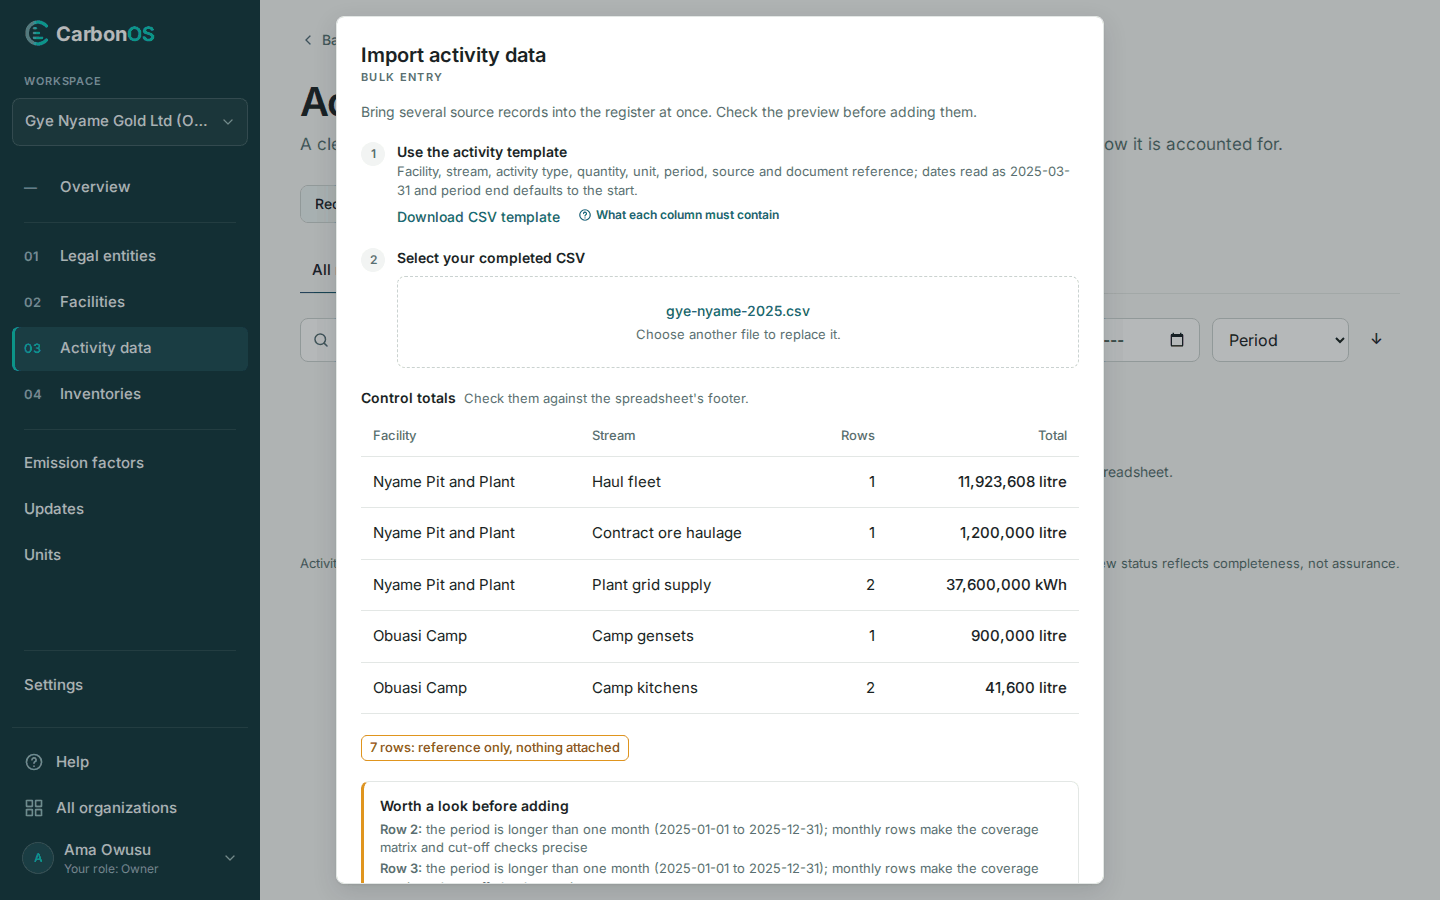
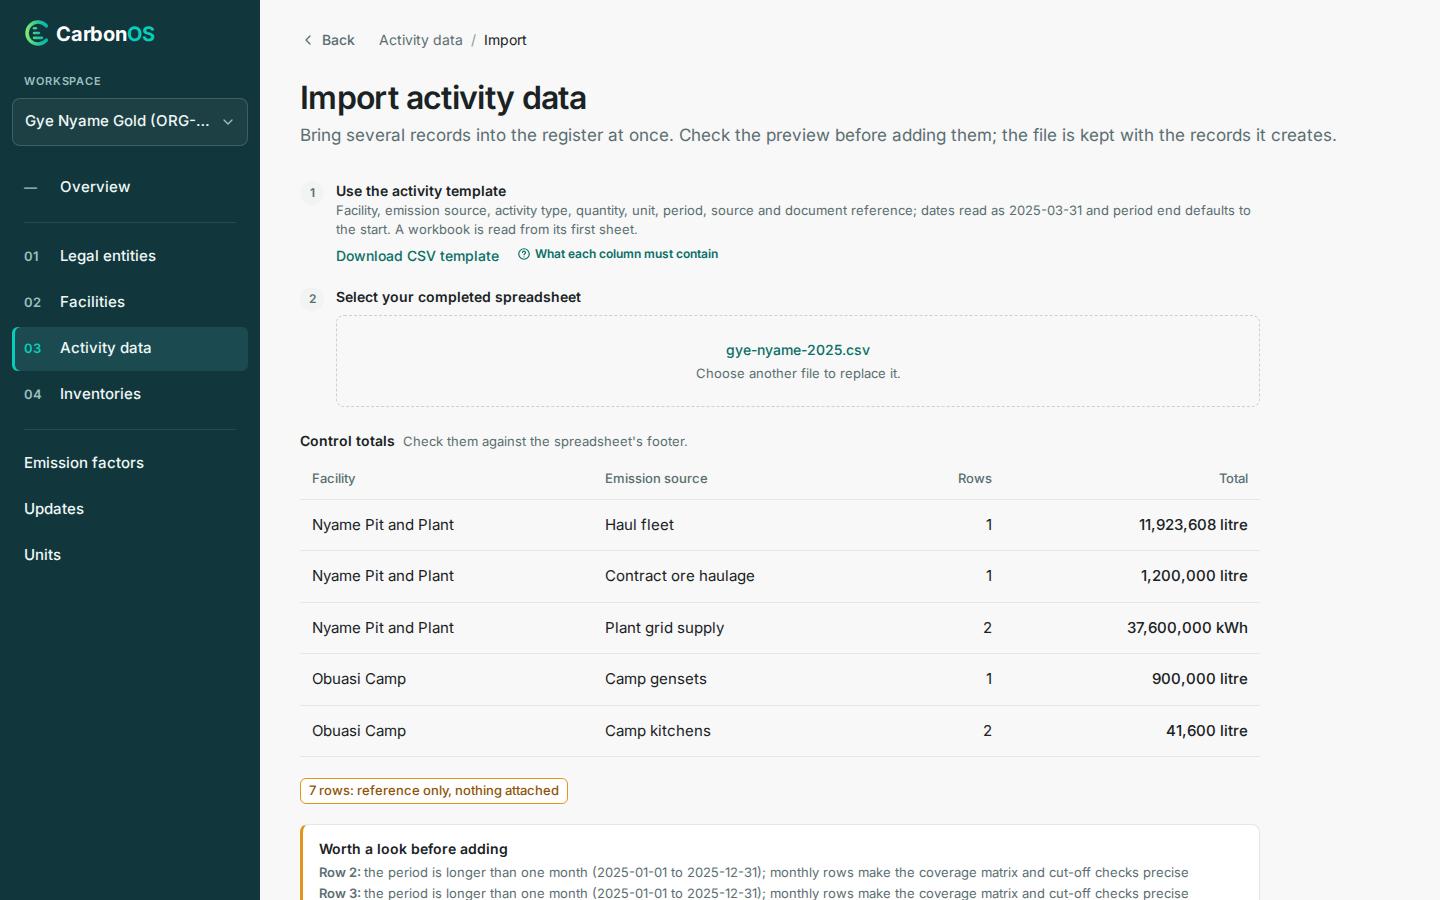
docs(help): the spreadsheet import, the decisions in the preview, and acting on several records at once (spec 04.11) (#172)
* docs(help): the spreadsheet import, the decisions in the preview, and acting on several records at once (spec 04.11)

Import records from a spreadsheet replaces the CSV page (legacy address
kept), Prepare the spreadsheet covers the workbook and the decision block,
the correction page gains the bulk acts, and the get-started import step
follows the page. Figures retaken from the running product.

* docs(help): drop the CSV import page the spreadsheet page replaces

---------

diff --git a/help/docs/activity-data/prepare-the-csv-file.md b/help/docs/activity-data/prepare-the-csv-file.md
@@ -1,32 +1,33 @@
 ---
 owner: miketak
-last_reviewed: 2026-09-28
-description: The columns, limits and accepted values of the file Import CSV reads, with every rejection message the preview can print and a worked example.
+last_reviewed: 2026-10-05
+description: The columns, limits and accepted values of the CSV or XLSX that Import reads, with every rejection message the preview can print and a worked example.
 role: Preparer
 ---
 
-# Prepare the CSV file
+# Prepare the spreadsheet
 
-The file **Import CSV** accepts on **Activity data**. **Download CSV template** in the import dialog gives the header row with one example row, and **What each column must contain** opens this page.
+The file **Import** accepts on **Activity data**: a CSV, or an XLSX read from its first sheet. **Download CSV template** on the import page gives the header row with one example row, and **What each column must contain** opens this page.
 
-<!-- sources: reference/csv-import-template.md (verified 2026-09-24); spec 04.6; ActivityImportService.java (COLUMNS, template, row problems, warnings, MAX_ROWS, MAX_BYTES); ImportActivitiesModal.tsx; the fixture help/docs/assets/gye-nyame-2025.csv as previewed in the Gye Nyame Gold walkthrough of 2026-09-28 (replay-log.txt, "4 preview") -->
+<!-- sources: reference/csv-import-template.md (verified 2026-09-24); specs 04.6 and 04.11; QA procedure 3 cases A1, B1 and J1; ActivityImportService.java (COLUMNS, template, row problems, warnings, MAX_ROWS, MAX_BYTES), XlsxTable.java (the workbook's cells); ImportActivitiesPage.tsx; the fixture help/docs/assets/gye-nyame-2025.csv as previewed in the Gye Nyame Gold walkthrough of 2026-09-28 (replay-log.txt, "4 preview") -->
 
 ## Limits
 
 | Limit | Value | Message when exceeded |
 | --- | --- | --- |
-| File | A CSV, chosen or dropped in the dialog. | "Choose a CSV file to import."; "The file is empty. Download the template and fill it in." |
+| File | A CSV or an XLSX, chosen or dropped on the page; a workbook is read from its first sheet, whose row 1 is the header. | "Choose a CSV or XLSX file to import."; "The file is empty. Download the template and fill it in."; "Row 1 of the first sheet must be the header. Download the template."; "The workbook could not be read. Save it again as .xlsx or .csv." |
 | File size | 5 MB | "The file is larger than 5 MB." |
 | Rows | 10,000 per file | "The file has more than 10000 rows. Split it." |
 | Header | The five required columns, in any order; other columns may be left out. | "The header lacks the '*column*' column. Download the template." |
-| Dates | `2025-03-31` | "*field* '*value*' is not a date (use 2025-03-31)" |
+| Dates | `2025-03-31`; a workbook's date-formatted cell reads as such. | "*field* '*value*' is not a date (use 2025-03-31)" |
+| Workbook cells | A number reads as a plain decimal; a formula reads as its cached value. | No rejection; the preview warns. |
 
 ## Columns
 
 | Column | Required | Accepted values | Rejected when |
 | --- | --- | --- | --- |
 | `facility` | Yes | The name of a facility under **Facilities**, matched without regard to case. | "facility is empty"; "no facility named '*name*'". |
-| `emission_source` | No | The name of an emission source of that facility, matched without regard to case. A file that still heads the column `stream` is read the same way. | "'*Facility*' has no emission source named '*name*'". |
+| `emission_source` | No | The name of an emission source of that facility, matched without regard to case. A file that still heads the column `stream` is read the same way. A name the facility does not have is decided in the preview: used, mapped with a reason, or created. | "'*Facility*' has no emission source named '*name*'", only when **Add records** is clicked with the name undecided. |
 | `activity_type` | Yes | Free text, up to 120 characters: what the row is. | "activity_type is empty"; "activity_type is longer than 120 characters". |
 | `quantity` | Yes | A number greater than 0, up to 3 decimals and 11 integer digits. Commas are dropped. | "quantity '*value*' is not a number"; "quantity must be greater than 0"; "quantity has more than 3 decimals or more than 11 integer digits". |
 | `unit` | Yes | A unit code, up to 30 characters: a registered code (`litre`, `kWh`, `tonne`, …) or a custom unit defined under **Units**. | "unit is empty"; "unit is longer than 30 characters". |
@@ -48,6 +49,7 @@ A repeated row is rejected: "duplicate: the same facility, activity, quantity, u
 | **Control totals** | Rows and summed quantity per facility, emission source and unit: "Check them against the spreadsheet's footer." |
 | "*N* rows: reference only, nothing attached" | Rows with an `evidence_ref` and no file. Other counts name the missing item, for example "2 rows: missing source". |
 | **Worth a look before adding** | Warnings that do not stop the import. |
+| **Decide *N* unknown emission sources** | One card per emission source name the file has and the facility does not: the rows it covers, the similar names offered as **Use *name***, **Use another source of *facility*** with **Why this source?**, or **Create '*name*'**. Its rows read **Needs a decision** until then. |
 | "*N* records to add" | The rows that will become records: "Row numbers count the header as row 1, as the spreadsheet does." |
 | "Nothing will import: *N* rows rejected. Fix them and choose the file again." | Each rejected row with its problems. Nothing is added while any row is rejected. |
 
@@ -56,6 +58,8 @@ A repeated row is rejected: "duplicate: the same facility, activity, quantity, u
 | "the period is longer than one month (*start* to *end*); monthly rows make the coverage matrix and cut-off checks precise" | The row covers more than a month. |
 | "matches draft *ACT-NNNN* (same facility, activity and period): the draft stays on file, complete or remove it" | A draft on file has the same facility, activity type and period; the row adds a new record next to it. |
 | "'*Source*' mixes units in this file:" followed by the units | Two rows on one emission source use different units. |
+| "The workbook has *N* sheets; only '*Sheet1*' was read." | The file has more than one sheet. |
+| "quantity came from a formula; the saved value is the cached result" | The row's quantity, unit or period cell is a formula; the figure is what the spreadsheet last calculated. |
 
 ## Example
 

diff --git a/help/docs/activity-data/import-records-from-a-spreadsheet.md b/help/docs/activity-data/import-records-from-a-spreadsheet.md
@@ -1,0 +1,63 @@
+---
+owner: miketak
+last_reviewed: 2026-10-05
+description: Load a CSV or XLSX of activity records at once through Import, check the preview, decide any emission source the facility lacks, and add the records.
+role: Preparer
+minutes: 6
+screens: [step-4-import-preview.png, import-decide-sources.png]
+---
+
+# Import records from a spreadsheet
+
+An import brings several source records into the register at once, after a preview you check against the spreadsheet's footer. The file is kept with the records it creates.
+
+<!-- sources: specs 04.5, 04.6, 04.10 and 04.11 (the page, the workbook, the decisions, the stages); QA procedure 3 cases A1, A2, B1 and J1; ImportActivitiesPage.tsx (page text, the decision cards, the stages, "Add records"), ImportDecisionCard.tsx, ActivityPage.tsx (toast), ActivityImportService.java (warnings, rejections); screen text and figures from the local walkthrough of 2026-10-05 -->
+
+## Before you start
+
+- The facilities the rows name exist; the import matches the `facility` column by name. An emission source the file names and the facility does not have is decided in the preview, so the sources need not exist first.
+- The file follows [Prepare the spreadsheet](prepare-the-csv-file.md): one row per record, a CSV or an XLSX of up to 5 MB. A workbook is read from its first sheet.
+- You are a Preparer, Reviewer or Owner of the organization.
+
+## Import the file
+
+1. Open **Activity data** and click **Import**. The page **Import activity data** opens, under the breadcrumb **Activity data › Import**.
+2. Starting from scratch, click **Download CSV template** under **Use the activity template**. **What each column must contain** opens the column reference.
+3. Under **Select your completed spreadsheet**, click **Choose a CSV or XLSX file**, or drop the file on the page. The page reads "Uploading…" with the percentage, then "Checking *N* rows…" (for a workbook, "Checking the workbook…").
+4. Check **Control totals** against the spreadsheet's footer: rows and summed quantity per facility and emission source.
+5. Read **Worth a look before adding**. These warnings do not stop the import.
+6. Decide each name under **Decide *N* unknown emission sources**, if the block appears; see the next section.
+7. Read the list of records to add, for example "7 records to add".
+8. Click **Add records**. The page reads "Adding *N* records…" and returns to **Activity data**.
+
+![The import preview for gye-nyame-2025.csv: control totals per facility and emission source, the reference-only count, and the warnings on long periods](../assets/screens/step-4-import-preview.png)
+
+What you see: "7 records imported." and one row per record in the register, numbered in the order of the file (ACT-0001 to ACT-0007 for Gye Nyame Gold). When the import created emission sources, the message goes on: "1 emission source added during import." Rows the preview counted as "7 rows: reference only, nothing attached" carry "ref" in the attachments column. Row numbers in the preview count the header as row 1, as the spreadsheet does.
+
+## Decide an unknown emission source
+
+When a row names an emission source its facility does not have, nothing is rejected and nothing is matched silently. The row's status reads **Needs a decision**, and the preview lists the name once, with the rows it covers, under **Decide *N* unknown emission sources**. For each name, tick one of:
+
+- **Use *name***, offered when the facility has a source with a similar name (as the record form offers it). No reason is needed: the preview proposed it.
+- **Use another source of *facility***: choose the source and fill **Why this source?** with at least 10 characters, because nothing in the name suggested it.
+- **Create '*name*'**: the source is described as the record form describes one (**Source name**, **Kind**, **Fuel or material**, **Meter or supplier**, **Operated by a contractor**). When a similar name exists, **Why is this a different source?** is required too.
+
+![The decision cards for a file that names Boiler LPG 2 and Chiller units at Kumasi Plant: the first offers Use Boiler LPG, the second is created](../assets/screens/import-decide-sources.png)
+
+**Add records** stays disabled until every name is decided. A source created here is marked "added during import" on the facility's **Emission sources** page, and the organization's history records each mapping with the rows it covered.
+
+## What the warnings mean
+
+- "The workbook has *N* sheets; only '*Sheet1*' was read.": only the first sheet imports.
+- "quantity came from a formula; the saved value is the cached result": the cell is a formula, so the figure is what the spreadsheet last calculated. Check that it was recalculated before saving.
+- "Row 8: the period is longer than one month (2025-12-15 to 2026-01-15); monthly rows make the coverage matrix and cut-off checks precise": the row imports as it is.
+- "matches draft *ACT-NNNN* (same facility, activity and period): the draft stays on file, complete or remove it": the row adds a new record next to the draft. Complete or remove the draft, so the register does not hold both.
+- "'*Source*' mixes units in this file:" followed by the units: allowed, but worth checking.
+
+## If the file is rejected
+
+The preview reads "Nothing will import: *N* rows rejected. Fix them and choose the file again." and names each row with its problems, for example "no facility named 'Plant 2'". Nothing is added while any row is rejected. Every rejection message is listed in [Prepare the spreadsheet](prepare-the-csv-file.md#columns).
+
+## What happens next
+
+The records carry no scope, category or factor; an inventory decides those when it reviews them, see [Review and classify records](../inventories/review-and-classify-records.md). An inventory that already reviewed the organization's records sees the new ones once **Review activity data** is run again. Each record's history names the imported file; for a workbook, **Source documents** keeps the file as uploaded and the table as it was read.

diff --git a/help/docs/get-started/import-the-records-and-correct-one.md b/help/docs/get-started/import-the-records-and-correct-one.md
@@ -1,6 +1,6 @@
 ---
 owner: miketak
-last_reviewed: 2026-10-04
+last_reviewed: 2026-10-05
 description: Import the seven 2025 activity records for Gye Nyame Gold from a CSV file, read the preview, then correct the electricity record whose figure lost a zero.
 role: Preparer
 minutes: 10
@@ -11,24 +11,24 @@ screens: [step-4-import-preview.png]
 
 This fourth step of the Get started series brings in the year's activity data for Gye Nyame Gold from one CSV file and corrects one record in place, keeping its history. Activity data is what happened: fuel burned, electricity bought. It carries no scope and no factor; every inventory decides those separately.
 
-<!-- sources: specs 04.5, 04.6 (activity records, corrections and their history, CSV import) and 10 (the split register, the completeness strip); the old tutorial get-started/your-first-inventory.md (verified 2026-09-24); screen text and figures from the Gye Nyame Gold walkthrough of 2026-09-28 (replay-log.txt) with the fixture help/docs/assets/gye-nyame-2025.csv -->
+<!-- sources: specs 04.5, 04.6 (activity records, corrections and their history, CSV import), 04.11 (the import page) and 10 (the split register, the completeness strip); the old tutorial get-started/your-first-inventory.md (verified 2026-09-24); screen text and figures from the Gye Nyame Gold walkthrough of 2026-09-28 (replay-log.txt) with the fixture help/docs/assets/gye-nyame-2025.csv -->
 
 ## Before you start
 
 - The two facilities and five emission sources exist, from [Record the facilities and emission sources](record-the-facilities-and-emission-sources.md). The import matches each row to a facility and an emission source by name.
-- Download the year's records: [gye-nyame-2025.csv](../assets/gye-nyame-2025.csv). It has seven rows, and the second-half electricity row carries 3,600,000 kWh on purpose: a lost zero that you correct at the end of this step. The columns are described in [Prepare the CSV file](../activity-data/prepare-the-csv-file.md).
+- Download the year's records: [gye-nyame-2025.csv](../assets/gye-nyame-2025.csv). It has seven rows, and the second-half electricity row carries 3,600,000 kWh on purpose: a lost zero that you correct at the end of this step. The columns are described in [Prepare the spreadsheet](../activity-data/prepare-the-csv-file.md).
 
 ## Import the file
 
-1. Open **Activity data**. The page reads "No activity data yet". Click **Import CSV**.
-2. Under **Select your completed CSV** in the **Import activity data** dialog, choose `gye-nyame-2025.csv`. The dialog also offers **Download CSV template**, which the fixture follows.
+1. Open **Activity data**. The page reads "No activity data yet". Click **Import**.
+2. Under **Select your completed spreadsheet** on the **Import activity data** page, choose `gye-nyame-2025.csv`. The page also offers **Download CSV template**, which the fixture follows.
 3. Read the preview. **Control totals** groups the rows by facility and emission source (Nyame Pit and Plant, Plant grid supply: 2 rows, 37,600,000 kWh, and so on) so you can check them against the spreadsheet's footer. A badge reads "7 rows: reference only, nothing attached".
 4. Read **Worth a look before adding**. Every row is listed, for example "Row 5: the period is longer than one month (2025-07-01 to 2025-12-31); monthly rows make the coverage matrix and cut-off checks precise". A long period is a warning rather than an error because the fact is still a fact; monthly rows are better because they let the coverage matrix and the cut-off checks see each month on its own.
 5. Check that each row under **7 records to add** reads "Ready", then click **Add records**.
 
 ![The import preview for gye-nyame-2025.csv with the control totals by facility and emission source and the Worth a look before adding warnings](../assets/screens/step-4-import-preview.png)
 
-What you see: "Checking the file…" then "7 records imported." The strip above the table reads **Records ready** 7 "of 7" and **Record completeness** 100%. The records are numbered ACT-0001 to ACT-0007 in the order of the file: "Haul fleet diesel" (ACT-0001), "Contract haulage diesel" (ACT-0002), "Plant grid electricity H1" (ACT-0003), "Plant grid electricity H2" (ACT-0004), "Genset diesel" (ACT-0005), "Kitchen LPG" (ACT-0006) and "Year-end kitchen LPG" (ACT-0007). The list sorts by period, so the year-end row comes first. Each row has the data status **Ready** and a "ref" mark, because it cites a document reference and nothing is attached.
+What you see: "Uploading…", "Checking 7 rows…", then back on **Activity data** "7 records imported." The strip above the table reads **Records ready** 7 "of 7" and **Record completeness** 100%. The records are numbered ACT-0001 to ACT-0007 in the order of the file: "Haul fleet diesel" (ACT-0001), "Contract haulage diesel" (ACT-0002), "Plant grid electricity H1" (ACT-0003), "Plant grid electricity H2" (ACT-0004), "Genset diesel" (ACT-0005), "Kitchen LPG" (ACT-0006) and "Year-end kitchen LPG" (ACT-0007). The list sorts by period, so the year-end row comes first. Each row has the data status **Ready** and a "ref" mark, because it cites a document reference and nothing is attached.
 
 ## Correct the electricity record
 

diff --git a/help/docs/activity-data/correct-or-remove-a-record-and-attach-evidence.md b/help/docs/activity-data/correct-or-remove-a-record-and-attach-evidence.md
@@ -1,6 +1,6 @@
 ---
 owner: miketak
-last_reviewed: 2026-10-04
+last_reviewed: 2026-10-05
 description: Correct a figure with a reason the history keeps, attach the invoice or a link to it, and remove a record that should never have been entered.
 role: Preparer
 minutes: 6
@@ -11,7 +11,7 @@ screens: [step-4-correct-record.png]
 
 A correction keeps the old and new values and your reason in the record's history; evidence keeps the document with the figure it supports.
 
-<!-- sources: tasks/activity-data/enter-correct-and-evidence-a-record.md (verified 2026-09-24); specs 04.4, 04.5 and 10 (the split register); ActivityDrawer.tsx (the record's detail: reason field, toasts), ActivityHistoryModal.tsx, EvidencePanel.tsx, ActivityPage.tsx and RemoveDialog.tsx (removal dialog and toast), SourceDocumentsPage.tsx (filters, evidence index), RunDetailPage.tsx ("Since publication"), AssignmentsSection.tsx and AssignmentDetail.tsx ("Changed since publication"), ReportLabels.java ("Record removed"); screen text and figures from the Gye Nyame Gold walkthrough of 2026-09-28 (replay-log.txt): "4 record drawer", "4 record edited", "4 after save", "4 history" -->
+<!-- sources: tasks/activity-data/enter-correct-and-evidence-a-record.md (verified 2026-09-24); specs 04.4, 04.5, 04.11 (several records at once) and 10 (the split register); QA procedure 3 cases G1 and J2; BulkActionDialogs.tsx; ActivityDrawer.tsx (the record's detail: reason field, toasts), ActivityHistoryModal.tsx, EvidencePanel.tsx, ActivityPage.tsx and RemoveDialog.tsx (removal dialog and toast), SourceDocumentsPage.tsx (filters, evidence index), RunDetailPage.tsx ("Since publication"), AssignmentsSection.tsx and AssignmentDetail.tsx ("Changed since publication"), ReportLabels.java ("Record removed"); screen text and figures from the Gye Nyame Gold walkthrough of 2026-09-28 (replay-log.txt): "4 record drawer", "4 record edited", "4 after save", "4 history" -->
 
 ## Before you start
 
@@ -48,7 +48,17 @@ A record entered by mistake is removed, not deleted: "The record stays on file a
 1. Open the record and click **Remove** under its title.
 2. Fill **Reason**, at least 5 characters, and click **Remove**.
 
-What you see: "Activity removed." The row leaves the register; its documents stay under **Source documents** with the **Record removed** filter. Removing several rows at once asks for one reason.
+What you see: "Activity removed." The row leaves the register; its documents stay under **Source documents** with the **Record removed** filter.
+
+## Act on several records at once
+
+Tick the rows on **Activity data**. The footer offers **Assign emission source**, **Set data quality tier**, **Add evidence link** and **Remove *N* selected**. Each opens a dialog with the one value it needs and a **Reason** of at least 5 characters, and reads "Applies to *N* records." The act is one request: either every record changes, or none does and the dialog lists the records that refuse it by number, for example "ACT-0007 is used in run 1 and cannot be removed." Deselect them and try again.
+
+- **Assign emission source** fills a gap: it is offered when every ticked record is at one facility and has no emission source ("Select records at one facility with no emission source."). Changing a record's source is a correction of that record, because the source sets its default scope.
+- **Set data quality tier** leaves a record already at that tier as it is, and warns when the records are of more than one kind of source.
+- **Add evidence link** attaches the same link to each record: one invoice, many lines.
+
+What you see: "Emission source assigned to *N* records.", "Data quality tier set on *N* records.", "Evidence link added to *N* records." or "*N* records removed." Each record's history carries the reason; the organization's **History** names the act once.
 
 ## What happens next
 

diff --git a/help/docs/activity-data/enter-a-record.md b/help/docs/activity-data/enter-a-record.md
@@ -9,7 +9,7 @@ screens: [step-4-records.png, enter-a-record-new-source.png]
 
 # Enter a record
 
-Enter one record when an invoice, meter reading or log arrives; for a spreadsheet of rows, [import a CSV file](import-records-from-a-csv-file.md) instead.
+Enter one record when an invoice, meter reading or log arrives; for a spreadsheet of rows, [import a spreadsheet](import-records-from-a-spreadsheet.md) instead.
 
 <!-- sources: tasks/activity-data/enter-correct-and-evidence-a-record.md (verified 2026-09-24); specs 04.2, 04.5, 04.6, 04.10 and 10 (the split register, the completeness strip, the inline source and the reconcile prompt); QA governance 002 D4; ActivityDrawer.tsx (the record's detail: eyebrow, tabs, labels, hints, toasts), EmissionSourceField.tsx, ReconcileSourceNotice.tsx, GhgRules.java (ghg.stream.name-similar, ghg.stream.name-duplicate), badges.tsx and format.ts (pills and missing items), CompletenessBanner.tsx, InventoryFormModal.tsx (straddle setting); screen text and figures from the Gye Nyame Gold walkthrough of 2026-09-28 (replay-log.txt): "4 activity empty", "4 after import", "4 record drawer", "5 inventory dialog", "6 under review", "7 run page", and the local walkthrough of 2026-10-04 on the ECO-5 branch -->
 

diff --git a/help/docs/fix/check-the-validation-rules-and-limits.md b/help/docs/fix/check-the-validation-rules-and-limits.md
@@ -38,7 +38,7 @@ answers with where one is printed.
 
 | Rule | Value |
 | --- | --- |
-| CSV import | 5 MB and 10,000 rows per file; column limits in [CSV import template](../activity-data/prepare-the-csv-file.md). |
+| Spreadsheet import | A CSV or XLSX, 5 MB and 10,000 rows per file; column limits in [Prepare the spreadsheet](../activity-data/prepare-the-csv-file.md). |
 | Evidence file | "PDF, image, spreadsheet or text, up to 20 MB." (`.pdf`, `.png`, `.jpg`, `.jpeg`, `.webp`, `.csv`, `.xlsx`, `.xls`, `.txt`, `.docx`). |
 | Evidence link | URL required, up to 1,000 characters; name up to 255. |
 | Removal reason | Required. |

diff --git a/help/docs/organization/record-facilities-and-emission-sources.md b/help/docs/organization/record-facilities-and-emission-sources.md
@@ -60,4 +60,4 @@ The organization's history records adding, editing and removing a facility, with
 
 ## What happens next
 
-Records name the facility and the source, matched by name on import; one classified under its source's default needs no justification.
+Records name the facility and the source, matched by name on import (a name the facility lacks is decided in the import's preview); one classified under its source's default needs no justification.
